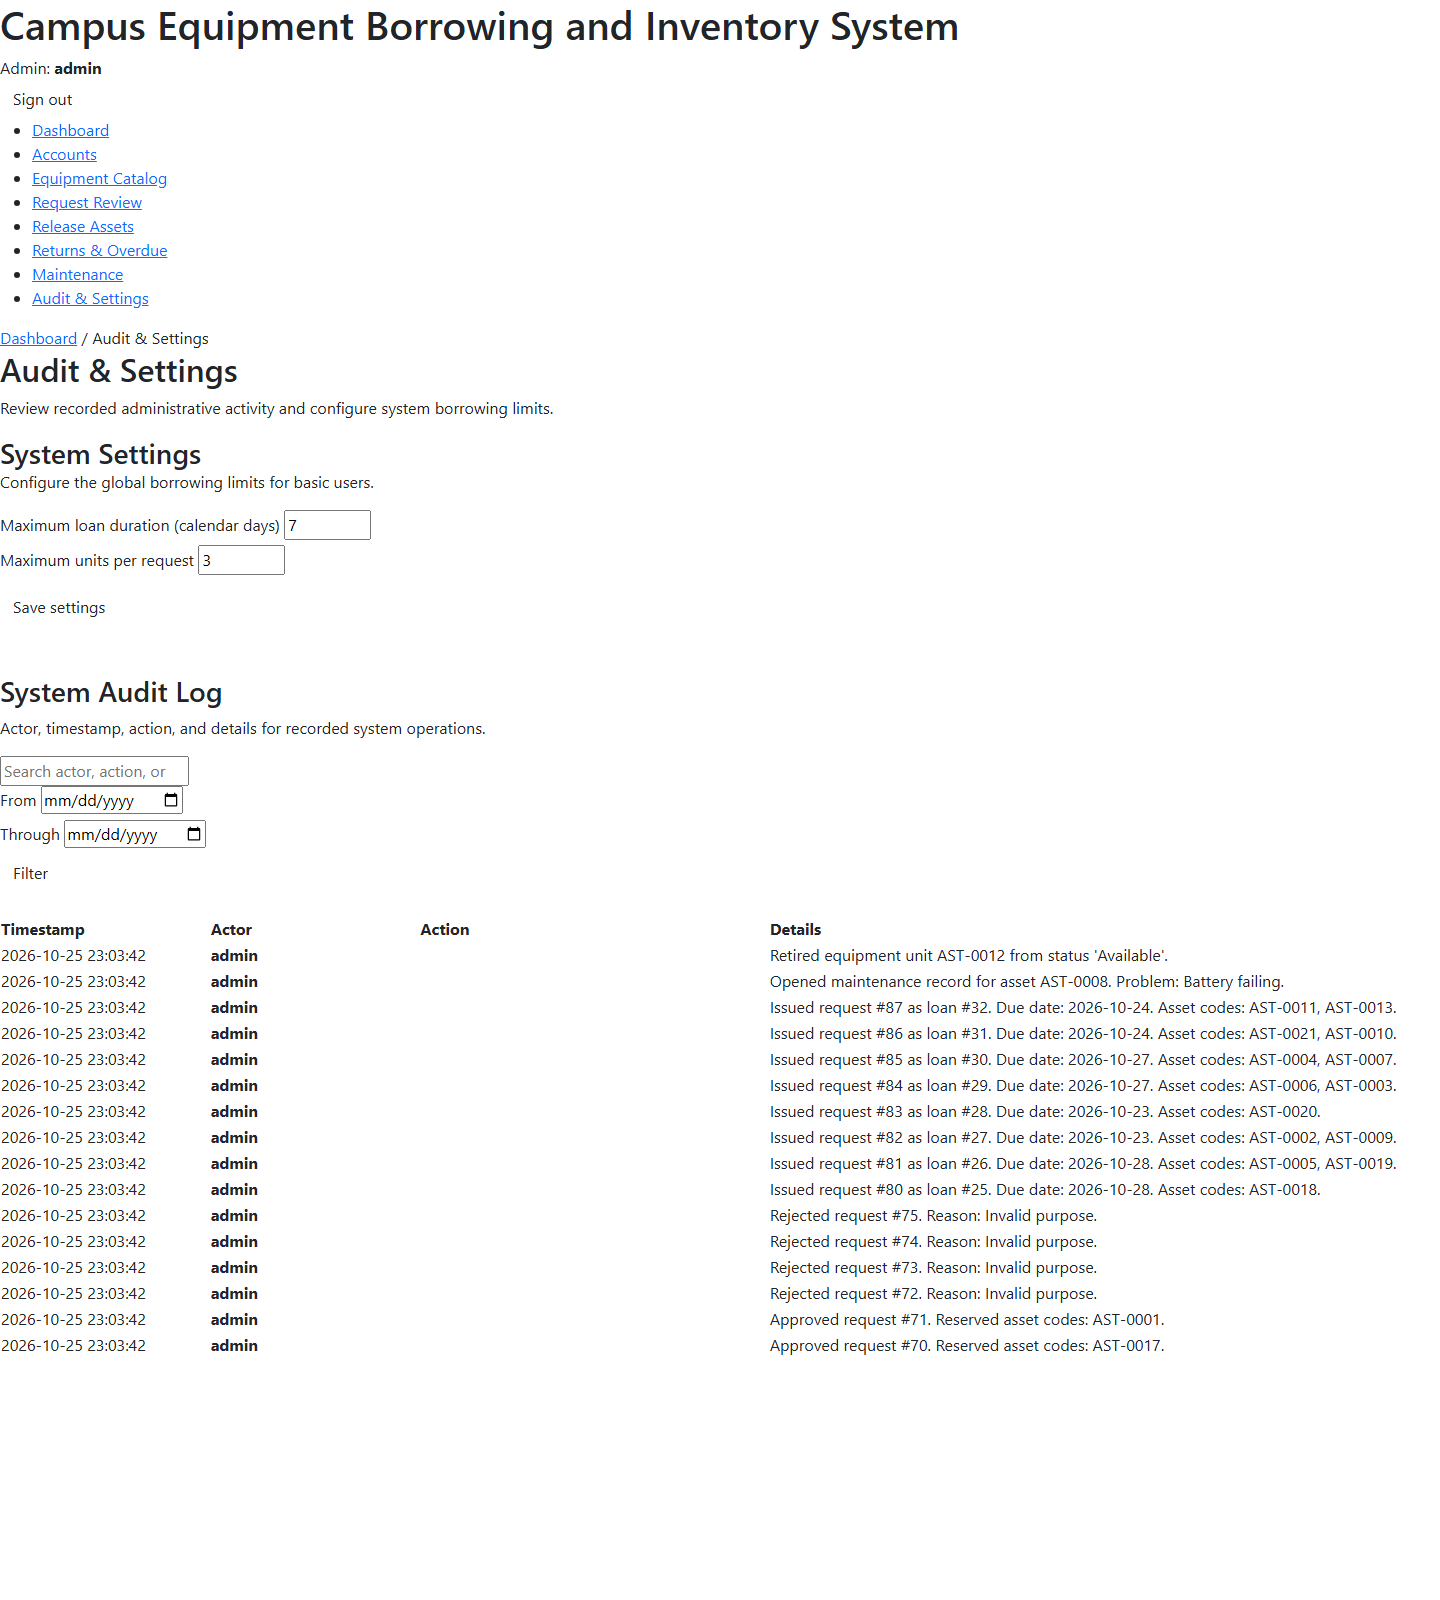
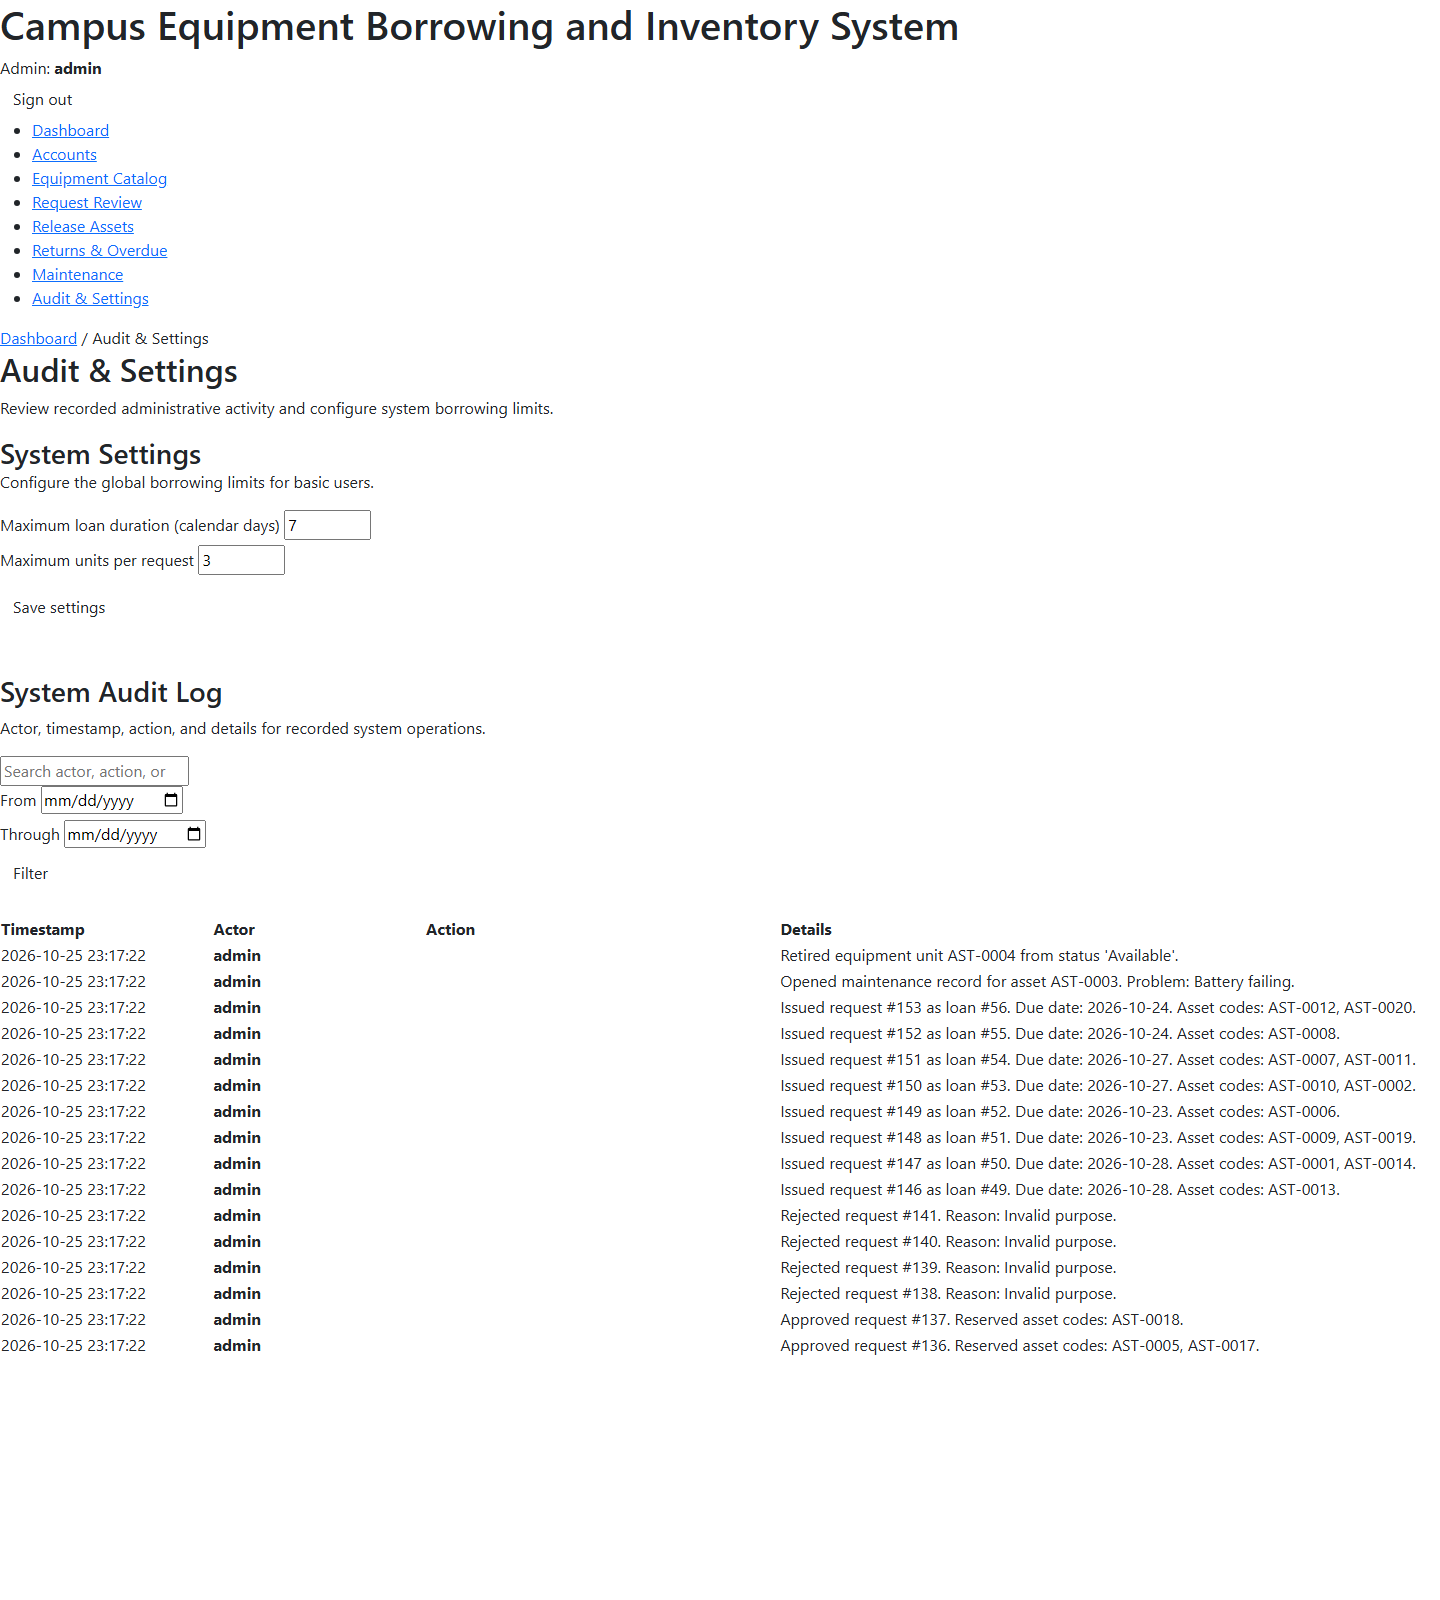
Make seed data deterministic and refresh verification evidence

diff --git a/Campus_Equipment_Borrowing_and_Inventory_System_APP/management/commands/seed.py b/Campus_Equipment_Borrowing_and_Inventory_System_APP/management/commands/seed.py
@@ -15,6 +15,10 @@ class Command(BaseCommand):
     help = 'Seeds the database with fictional data meeting project requirements.'
 
     def handle(self, *args, **kwargs):
+        # Deterministic demo data: the same command must produce the same
+        # counts on every machine for the documentation and defense.
+        random.seed(401)
+
         with transaction.atomic():
             self.clear_existing_data()
             self.stdout.write("Previous data cleared.")

diff --git a/README.md b/README.md
@@ -236,7 +236,7 @@ python manage.py test
 - 22 requests across Pending, Approved, Rejected, Cancelled, Issued,
   Partially Returned, and Returned
 - 8 issued loans (including overdue loans)
-- 5 maintenance records
+- 4 maintenance records
 - units in all five states: Available, Reserved, Issued, Maintenance, Retired
 - audit entries for approval, rejection, release, maintenance, and retirement
 

diff --git a/docs/03_tech_justification.md b/docs/03_tech_justification.md
@@ -150,7 +150,7 @@ Representative commits:
 | :--- | :--- |
 | Test count | **123 tests** |
 | Test result | **OK** |
-| Runtime reported by Django | **253.942 seconds** (255.1 seconds wall clock) |
+| Runtime reported by Django | **258.239 seconds** |
 | System check | No issues |
 | Migration check | No changes detected |
 | Seed command | Completed successfully |
